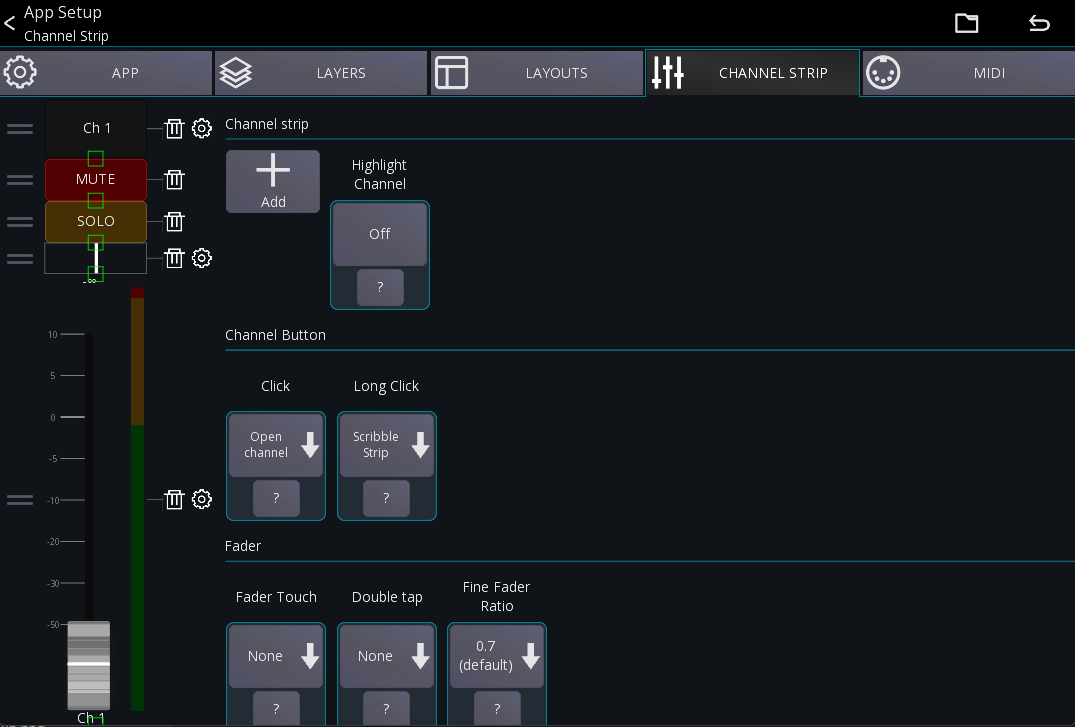
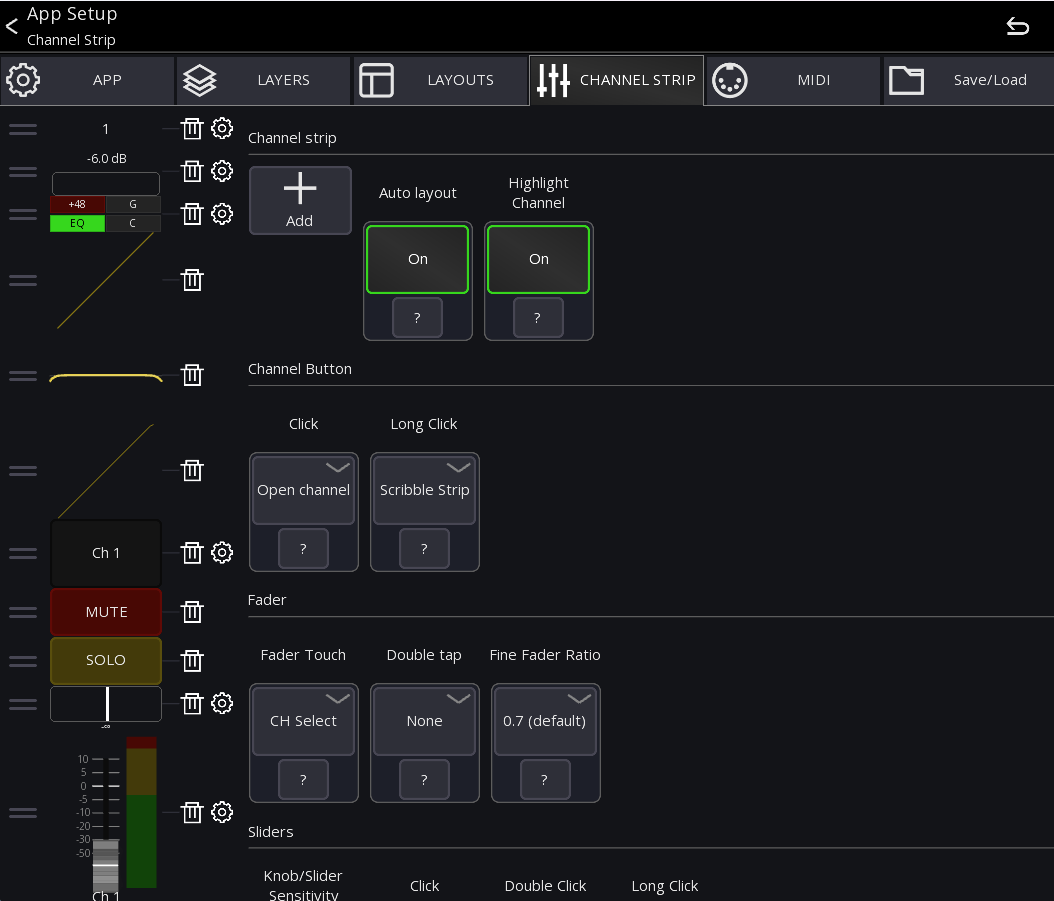
feat: update channel strip docs

diff --git a/docs/settings/channel-strip.md b/docs/settings/channel-strip.md
@@ -1,37 +1,69 @@
 # Channel strip settings
-
 ![Channel strip settings](../img/settings/channel-strip.png)
 
 The channel strips can be fully configured to your liking. The configuration is stored globally for your device.
 
-For more advanced configuration options take a look at the [custom layouts](../custom-layouts.md) page.
+On the left side of the screen you'll see your current channel strip configuration. You can re-arrange items
+by dragging them using the indicator on the left. 
+To the right of each UI element you'll find a trash and gear icon.
+Those can be pressed to either remove or further configure the item.
 
-## Channel strip items
+On the right side of the screen you can find general behavior settings for the channel strip. 
 
-On the left side of the view you can change the size and position of the channel strip UI elements.
-Drag directly on an item to resize it. Drag on the left side of an item to change its position.
+## Layout modes
+By default, the `Auto layout` setting is enabled. This mode will automatically show/hide the channel strip items
+you have configured on the left, based on the available screen space.
 
-## Fader
+If you want to have full control over the size of the items (for example if you want larger mute buttons) you can 
+disable `Auto layout`.
+This will result in small rectangles being shown on the channel strip items. You can drag those to resize
+the items to your liking:
 
-This section configures the fader.
+![Channel strip without auto layout](chstrip-auto-layout-off.png)
+
+
+## Options
+
+The following describes the options available on the right side of the screen
+### Channel Strip
+
+### Channel Button
+
+This section configures the [channel button](../ui-controls.md#channel-buttons).
+
+- `Click`:  Configures what should happen if the button is clicked (touch and release)
+- `Long Click`:  Configures what should happen if the button is long clicked (touch and hold)
+
+### Fader
+
+This section configures the global fader behavior.
+
+- `Fader Touch`: Configures what should happen if the fader is touched
+- `Double tap`: Configures what should happen if the fader knob is double tapped.
+- `Fine fader ratio`: Configures the sensitivity of the fader if [fine mode](../ui-controls.md/#fine-mode) is enabled.
+
+Additional fader specific settings can be found when pressing the gear icon to the right of the fader:
+
+![Fader settings](fader-settings.png)
 
 - `Show groups`: When enabled, all assigned {{ abbr('DCA') }} and Mutegroups will be shown on the right of the fader.
-- `Fader touch`: Defines what should happen if the fader is touched.
-- `Double tap`: Defines what should happen if the fader is double tapped.
+- `Gate GR meter`: Show the gate gain reduction
+- `Gate Dyn meter`: Show the compressor gain reduction
+- `Meter position`: Changes the position of the metering
 
-## Sliders
+### Sliders
 
 This section configures all sliders inside a channel strip (i.e., in the mixer and any other channel strip).
 You can configure the sensitivity of the sliders, and what should happen if they get clicked.
 
 ## Behaviour
 
-This section configures the behaviour of the channel strip.
+This section configures the behavior of the channel strip.
 
 - `Highlight channel`: If enabled, the currently selected channel is highlighted.
 - `Fine fader ratio`: Changes the sensitivity of the fader when [fine mode](../ui-controls.md/#fine-mode) is enabled.
-- `Channel click`: Changes the behaviour when taping a channel button.
-- `Channel long click`: Changes the behaviour when long pressing a channel button.
+- `Channel click`: Changes the behavior when taping a channel button.
+- `Channel long click`: Changes the behavior when long pressing a channel button.
 - `Sends click`: Defines what happens when a sends slider inside the channel strip is clicked.
 - `Sends readonly`: If enabled, the sends sliders inside the channel strip are read-only (to prevent accidental
   changes).
